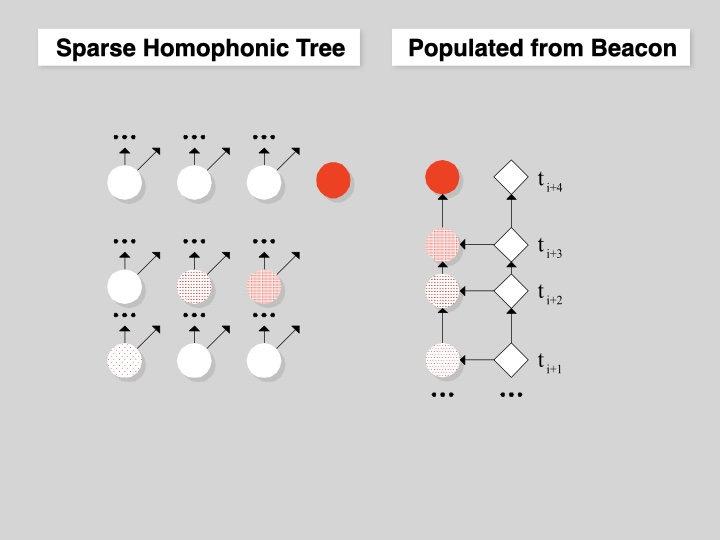
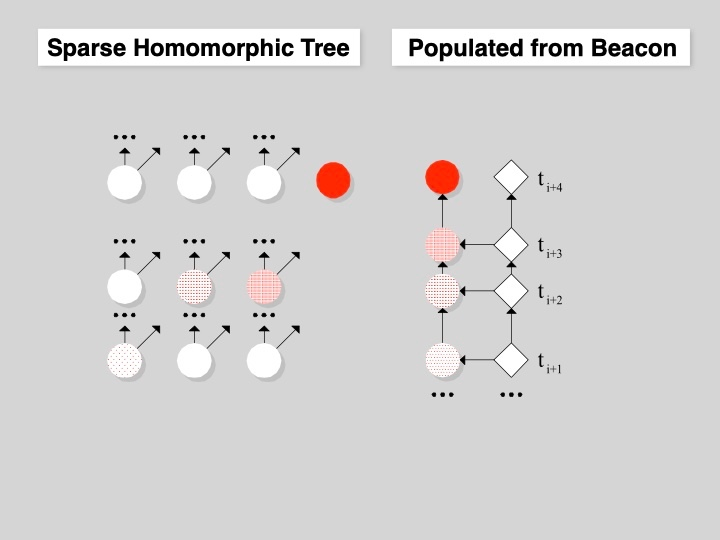
Pages 2, 5, 6 fit with page 4 margins; nav offset halved; dishes on 14, 15 at 60%; Homomorphic; anon prefetch of neighbour slides

Changed region(s): [[0.0611, 0.0593, 0.4889, 0.1185], [0.4278, 0.2963, 0.4889, 0.3852], [0.5806, 0.2963, 0.6417, 0.3556]]

diff --git a/anon/index.html b/anon/index.html
@@ -273,7 +273,7 @@ html.js, .js body { height: 100%; overflow: hidden; }
         <p>The end result is the same with less opportunity for other colors to cheat in the middle of the game. There still is the problem with who chooses the disclosure --one that is partially solved by replacing the glasses with the masks.</p>
         <p>But we’re still faced with the fact that there are recognizable clusters here. If there is a distinction that <em>red</em> is the  acceptable color then not being included in that group may be an unwanted disclosure. Another ploy is to fake being red and find out who reveals their self. These types of clustering attacks are reduced when each player can set a threshold before taking off the mask.</p>
         <p>How do we prevent cheaters from removing more than one wrapping? This is where a referee comes in--yes, this is trusted 3rd party, but one that has no knowledge of what colors go where. So, the trusted 3rd party becomes a beacon that merely broadcasts when it’s OK unwrap.</p>
-        <p>(From a cryptographer’s viewpoint, there is where the analogy begins to breakdown, because an attacker can always keep a copy to the ball to collect unwrapping tokens. There are two mitigating factors : first the attacker doesn’t know how many times the ball has been unwrapped before it was thrown to him. Second, the attacker can be prevented from recognizing that color without first <em>being</em> that color. Further details are giving  in the section on Homophonic Encoding trees.</p>
+        <p>(From a cryptographer’s viewpoint, there is where the analogy begins to breakdown, because an attacker can always keep a copy to the ball to collect unwrapping tokens. There are two mitigating factors : first the attacker doesn’t know how many times the ball has been unwrapped before it was thrown to him. Second, the attacker can be prevented from recognizing that color without first <em>being</em> that color. Further details are giving  in the section on Homomorphic Encoding trees.</p>
       </div>
     </section>
     <section class="anon-slide" id="s22" aria-label="Slide 22">
@@ -681,7 +681,7 @@ html.js, .js body { height: 100%; overflow: hidden; }
       </figure>
       <div class="notes">
         <p>With only two interests: “I paid” and “I didn’t pay”  and knowledge of each player’s routing criteria, it’s easy to infer what direction their preferences flow. For example, if Alice routes her preferences to Bob iff it is less than what’s in her cache, and No is valued less than Yes, then Bob can compare messages sent by Alice with messages sent by Carol to determine which one paid. With more interests and less predictable methods for routing, Bob’s job becomes harder.</p>
-        <p>(The best defense from a chosen plain text attack is to make the plain text so context sensitive that the attacker needs to <em>become</em> very similar to the attackee. More one that in the section on Homophonic trees.)</p>
+        <p>(The best defense from a chosen plain text attack is to make the plain text so context sensitive that the attacker needs to <em>become</em> very similar to the attackee. More one that in the section on Homomorphic trees.)</p>
         <p>Given that we’re dealing with a much larger set of interests, lets see how to scale secure interest propagation to a larger group.</p>
       </div>
     </section>
@@ -881,8 +881,8 @@ html.js, .js body { height: 100%; overflow: hidden; }
     </section>
     <section class="anon-slide" id="s84" aria-label="Slide 84">
       <figure>
-        <div class="pic"><img src="img/084.jpg" width="720" height="540" loading="lazy" alt="Sparse Homophonic Tree — Populated from Beacon"></div>
-        <figcaption><span class="num">84</span> Sparse Homophonic Tree</figcaption>
+        <div class="pic"><img src="img/084.jpg" width="720" height="540" loading="lazy" alt="Sparse Homomorphic Tree — Populated from Beacon"></div>
+        <figcaption><span class="num">84</span> Sparse Homomorphic Tree</figcaption>
       </figure>
       <div class="notes">
         <p>deciphered by a varying number of shares of a pooled secret. As you progress up the tree, the number of shares needed to decipher that branch increases. This allows more of the tree to be revealed over time.</p>
@@ -1012,6 +1012,14 @@ html.js, .js body { height: 100%; overflow: hidden; }
     settle = setTimeout(() => { auto = false; }, 150);
     if (!auto) show(nearest(), false, false);
   }, { passive: true });
+  // the shown slide and its neighbours load and decode ahead, so a turn shows no blank frame
+  const warm = (k) => {
+    const img = slides[k] && slides[k].querySelector('.pic img');
+    if (!img || img.dataset.warm) return;
+    img.dataset.warm = '1';
+    img.loading = 'eager';
+    if (img.decode) img.decode().catch(() => {});
+  };
   let current = -1;
   const show = (i, smooth = true, follow = true) => {
     i = Math.min(n - 1, Math.max(0, i));
@@ -1020,6 +1028,7 @@ html.js, .js body { height: 100%; overflow: hidden; }
     current = i;
     const s = slides[i];
     s.hidden = false;
+    [i, i + 1, i - 1, i + 2].forEach(warm);
     const fig = s.querySelector('figure');
     fig.insertBefore(disc, fig.querySelector('figcaption'));
     const notes = s.querySelector('.notes');

diff --git a/site.css b/site.css
@@ -310,7 +310,7 @@ ol.steps ul li { margin-bottom: .2em; }
 .deck-nav {
   position: fixed;
   right: var(--gutter);
-  bottom: var(--gutter);
+  bottom: calc(var(--gutter) / 2);
   z-index: 10;
   display: flex;
   align-items: center;
@@ -493,3 +493,43 @@ br.br-portrait { display: none; }
   #staging ol.steps > li { break-inside: avoid; }
 }
 @media screen and (max-height: 500px) { #staging .text { line-height: 1.3; } #staging ol.steps > li { margin-bottom: .4em; } #staging ol.steps ul li { margin-bottom: 0; } }
+/* Pages 2, 5, 6: page 4's margins; one page in landscape and squarish windows */
+@media (min-width: 980px) { #here .slide-inner { padding-inline: clamp(0px, 10vw - 48px, 120px); } }
+@media screen and (min-aspect-ratio: 4/5) {
+  #premise, #questions, #here { padding-top: clamp(12px, 4vh, 48px); padding-bottom: clamp(64px, 9vh, 96px); }
+  /* Page 6: the demo takes the height under the title and stays above the navigator */
+  #here { height: 100vh; height: 100svh; min-height: 0; }
+  #here .slide-inner { height: 100%; grid-template-rows: auto minmax(0, 1fr); gap: clamp(8px, 2vh, 20px); align-items: stretch; }
+  #here h2 { margin: 0; font-size: clamp(22px, min(4.2vw, 7vh), 56px); }
+  #here .demo-box { min-height: 0; height: 100%; grid-template-rows: minmax(0, 1fr); grid-template-columns: minmax(0, 1fr); }
+  #here .demo-frame { height: 100%; }
+  #here .zfold { height: 100%; width: auto; max-width: 100%; max-height: none; object-fit: contain; }
+}
+/* Pages 2 and 5: type follows the window height */
+@media screen and (min-aspect-ratio: 4/5) {
+  #premise h1, #questions h2 { font-size: clamp(20px, min(4.2vw, 7vh), 56px); }
+  #premise .slide-inner, #questions .slide-inner { row-gap: clamp(8px, 3vh, 32px); }
+  #premise .text { font-size: clamp(11px, 2.25vh, 1em); }
+  #premise .premise-sub { font-size: clamp(14px, min(2vw, 3.1vh), 28px); }
+  #questions table { font-size: clamp(11px, 1.9vh, 16px); }
+  #questions th, #questions td { padding-top: clamp(3px, 1.1vh, 10px); padding-bottom: clamp(3px, 1.1vh, 10px); }
+}
+/* Pages 2 and 5 in short windows: smaller type, page 2's lists in two columns */
+@media screen and (min-aspect-ratio: 4/5) and (max-height: 560px) {
+  #premise .slide-inner, #questions .slide-inner { gap: 8px 24px; }
+  #premise h1, #questions h2 { margin: 0; font-size: clamp(20px, 7vh, 34px); }
+  #premise .text { font-size: clamp(11px, 3vh, 16px); line-height: 1.3; column-count: 2; column-gap: 24px; }
+  #premise .premise-sub { margin: 0 0 .2em; font-size: 1.2em; }
+  #premise .premise-list li { line-height: 1.3; }
+  #premise .text .small { font-size: .85em; margin: 0; }
+  #questions table { font-size: clamp(11px, 3vh, 16px); }
+  #questions th, #questions td { padding-top: 3px; padding-bottom: 3px; }
+  #questions .table-wrap { margin: 0; }
+  #questions .slide-inner figure.diagram:not(.query) svg { max-height: 40vh; }
+  #questions figure.query svg { max-height: 20vh; }
+}
+/* Pages 14, 15: dish at 60% */
+#johnson .petri-stage, #threat .petri-stage { width: 60%; justify-self: center; }
+@media (min-width: 900px) {
+  #johnson .petri-stage, #threat .petri-stage { width: 100%; max-width: calc(.6 * min(720px, max(380px, calc(100svh - 340px)))); }
+}
